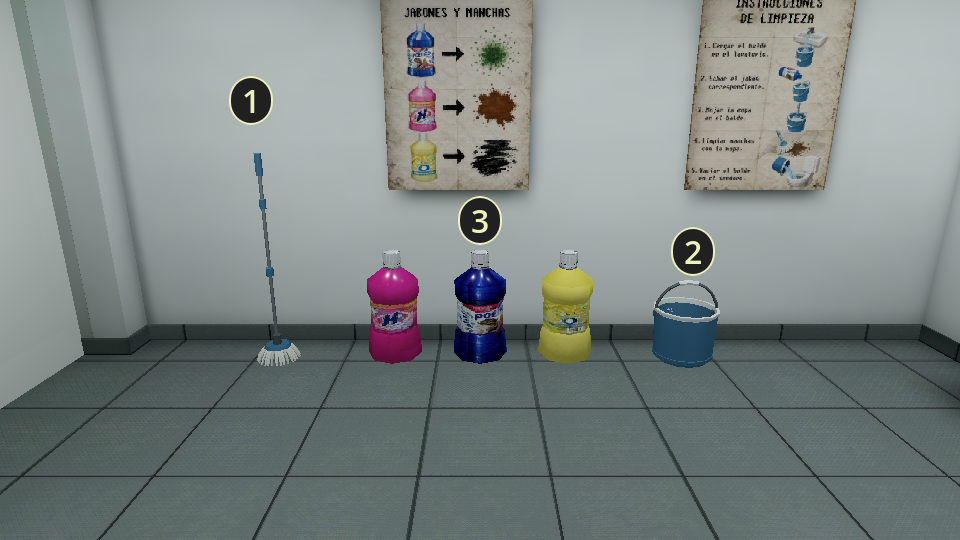
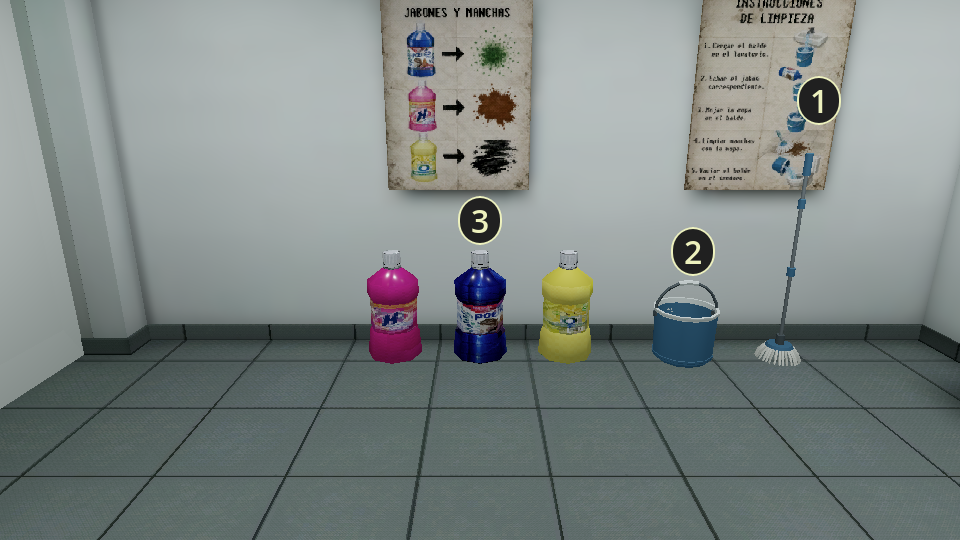
fix: orientar cajas al pasillo y recuperar mira al cerrar puestos

diff --git a/assets/ui/manada/README.md b/assets/ui/manada/README.md
@@ -123,6 +123,7 @@ El encuadre de Intro 4 es ortográfico, frontal al corcho completo y sus dos not
 encuadra las tres alturas del estante de cajas de frente, sin objetos que lo oculten. Las
 proporciones se ajustan al marco de presentación para evitar franjas negras sin perder el tema.
 Intro 7 muestra la caja registradora y el lector de frente, próximos y completos en el encuadre.
-Intro 11 agrupa la mopa y el balde junto a los jabones en sus posiciones jugables, con números
+Intro 11 agrupa la mopa a la derecha del balde, fuera del recorrido de la puerta, junto a los
+jabones en sus posiciones jugables, con números
 que corresponden a la leyenda: 1 mopa, 2 balde y 3 productos de limpieza. Intro 13 muestra las
 pilas del proveedor desde el frente, con sus pallets visibles y sin estantes delante.
